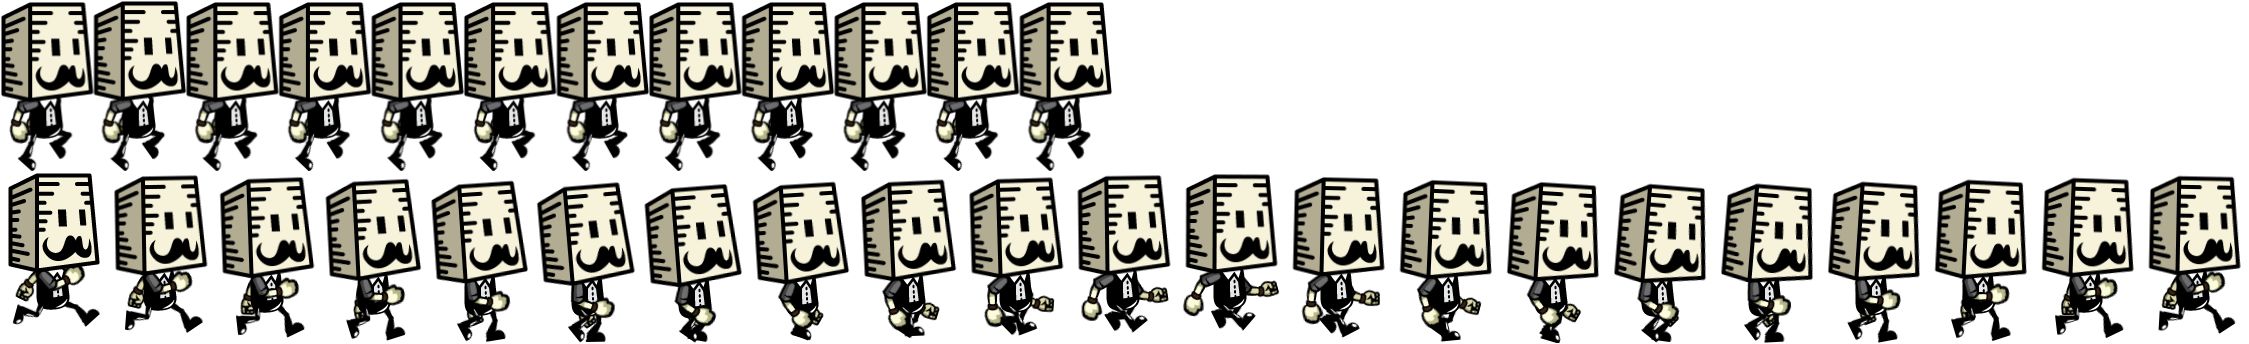
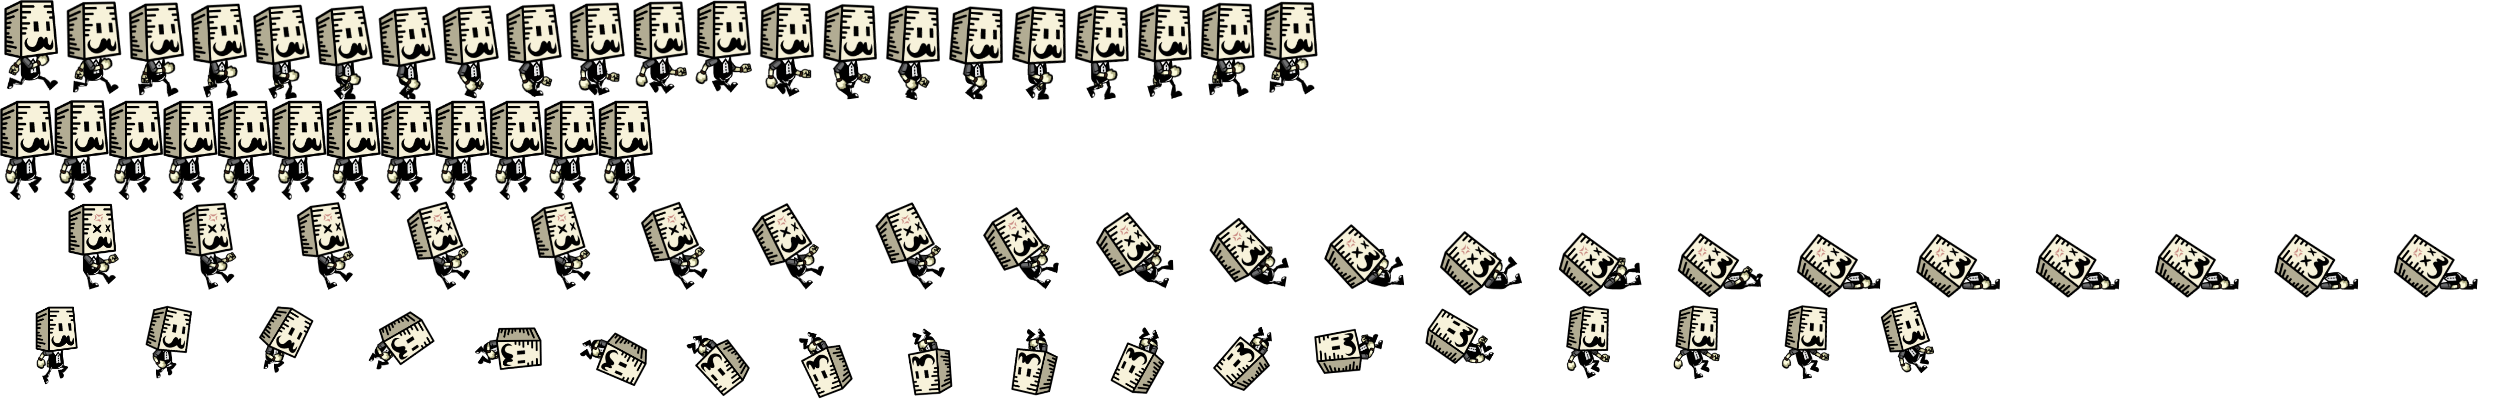
feat: animations for 4 playerState

diff --git a/helpers/playerStates.js b/helpers/playerStates.js
@@ -17,8 +17,9 @@ export class Sitting extends State {
         this.player = player;
     }
     enter(){
-        this.player.maxFrame = 11;
-        this.player.frameY = 0;
+        this.player.width = 2507/21;
+        this.player.maxFrame = 20;
+        this.player.frameY = 2;
     }
     handleInput(input){
         if (input.includes(`ArrowLeft`) || input.includes(`ArrowRight`)){
@@ -32,9 +33,9 @@ export class Running extends State {
         this.player = player;
     }
     enter(){
-        this.player.width = 2247/21;
+        this.player.width = 1322/21;
         this.player.maxFrame = 20;
-        this.player.frameY = 1;
+        this.player.frameY = 0;
     }
     handleInput(input){
         if (input.includes(`ArrowDown`)){
@@ -50,10 +51,10 @@ export class Jumping extends State {
         this.player = player;
     }
     enter(){
-        if (this.player.onGround()) this.player.vy -= 25;
-        this.player.width = 1111/12;
-        this.player.maxFrame = 6;
-        this.player.frameY = 0;
+        if (this.player.onGround()) this.player.vy -= 27;
+        this.player.width = 653/12;
+        this.player.maxFrame = 11;
+        this.player.frameY = 1;
     }
     handleInput(input){
         if (this.player.vy > this.player.weight){
@@ -67,8 +68,9 @@ export class Falling extends State {
         this.player = player;
     }
     enter(){
-        this.player.maxFrame = 6;
-        this.player.frameY = 0;
+        this.player.width = 1966/18;
+        this.player.maxFrame = 17;
+        this.player.frameY = 3;
     }
     handleInput(input){
         if (this.player.onGround()){

diff --git a/helpers/player.js b/helpers/player.js
@@ -3,8 +3,8 @@ import { Sitting, Running, Jumping, Falling } from './playerStates.js'
 export class Player {
     constructor(game){
         this.game = game;
-        this.width = 2247/21; // single frame width
-        this.height = 170; // single frame height
+        this.width = 1322/21; // single frame width
+        this.height = 100; // single frame height
         this.x = 50;
         this.y = this.game.height - this.height;
         this.vy = 0;
